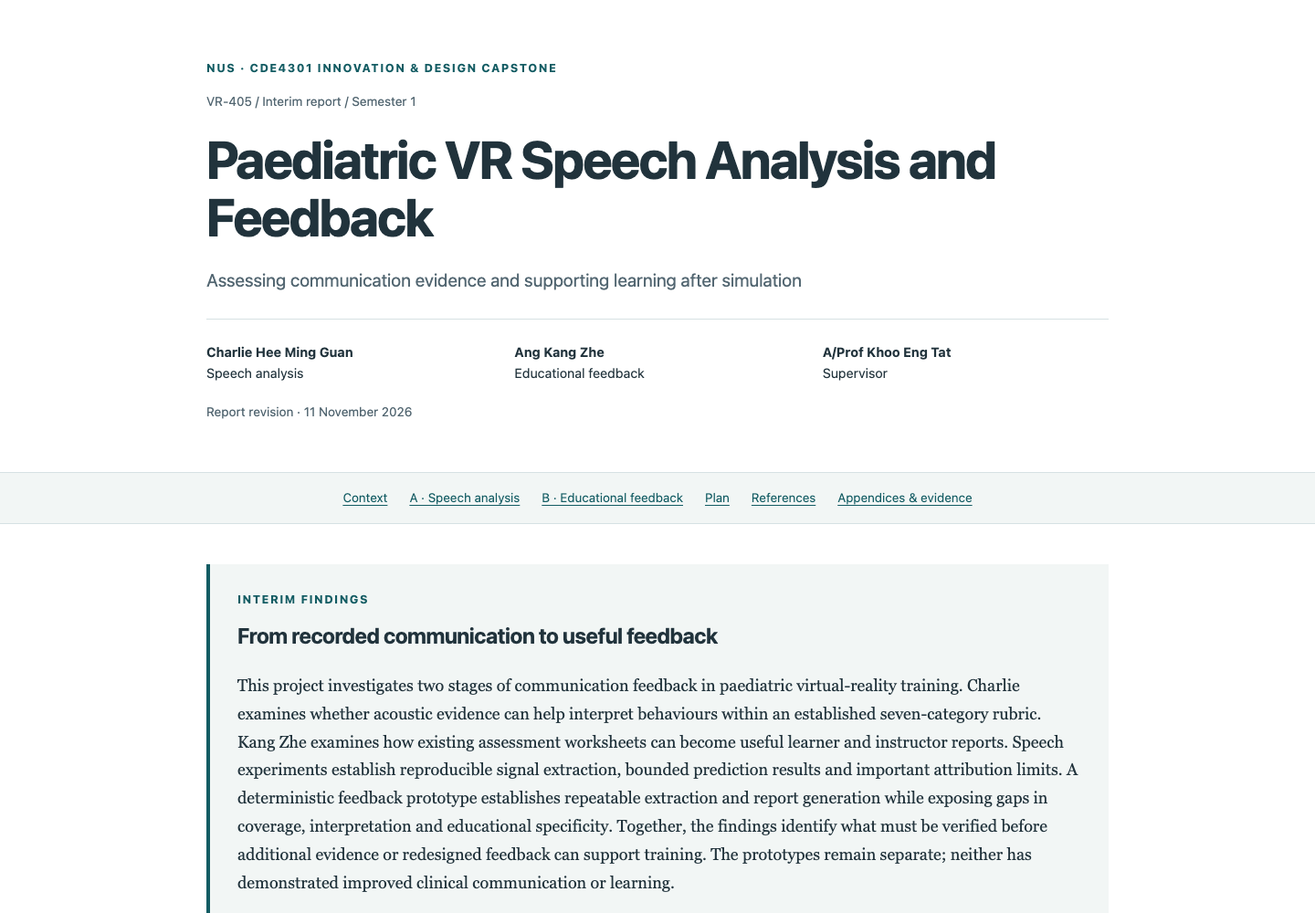
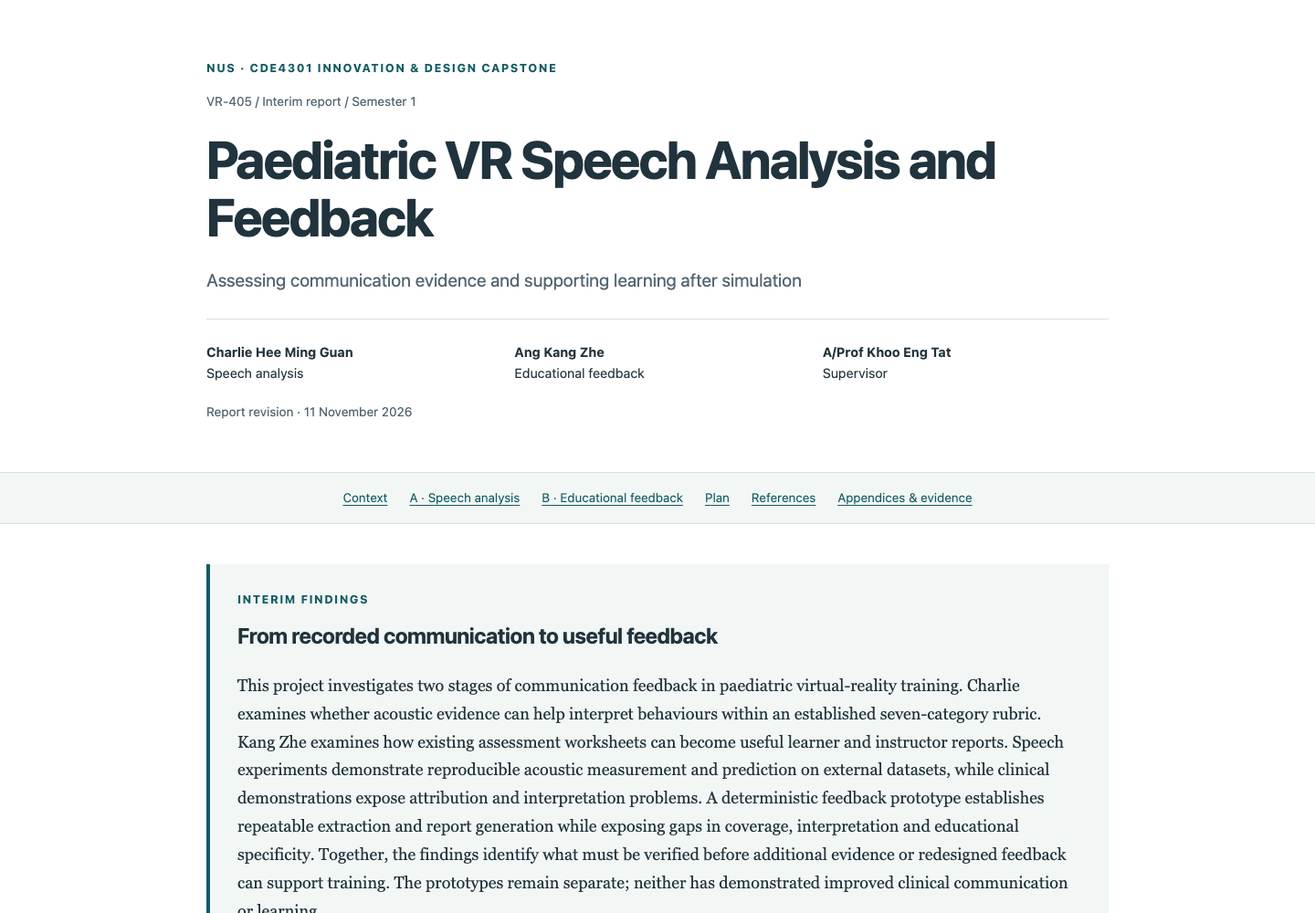
Clarify evidence interpretation and proposed evaluation controls

Changed region(s): [[0.1875, 0.837, 0.8125, 1.0]]

diff --git a/index.html b/index.html
@@ -4,21 +4,21 @@
 <nav aria-label="Report navigation"><a href="#introduction">Context</a><a href="#part-a">A · Speech analysis</a><a href="#part-b">B · Educational feedback</a><a href="#conclusion">Plan</a><a href="#references">References</a><a href="docs/evidence.html">Appendices &amp; evidence</a></nav>
 <main id="main-report">
 <section id="summary" data-part="shared" class="summary"><p class="eyebrow">Interim findings</p><h2>From recorded communication to useful feedback</h2>
-<p>This project investigates two stages of communication feedback in paediatric virtual-reality training. Charlie examines whether acoustic evidence can help interpret behaviours within an established seven-category rubric. Kang Zhe examines how existing assessment worksheets can become useful learner and instructor reports. Speech experiments establish reproducible signal extraction, bounded prediction results and important attribution limits. A deterministic feedback prototype establishes repeatable extraction and report generation while exposing gaps in coverage, interpretation and educational specificity. Together, the findings identify what must be verified before additional evidence or redesigned feedback can support training. The prototypes remain separate; neither has demonstrated improved clinical communication or learning.</p></section>
+<p>This project investigates two stages of communication feedback in paediatric virtual-reality training. Charlie examines whether acoustic evidence can help interpret behaviours within an established seven-category rubric. Kang Zhe examines how existing assessment worksheets can become useful learner and instructor reports. Speech experiments demonstrate reproducible acoustic measurement and prediction on external datasets, while clinical demonstrations expose attribution and interpretation problems. A deterministic feedback prototype establishes repeatable extraction and report generation while exposing gaps in coverage, interpretation and educational specificity. Together, the findings identify what must be verified before additional evidence or redesigned feedback can support training. The prototypes remain separate; neither has demonstrated improved clinical communication or learning.</p></section>
 <section id="introduction" data-part="shared"><p class="eyebrow">01 · Shared context</p><h2>Problem and contribution</h2>
-<p>Paediatric resuscitation requires teams to allocate roles, exchange instructions and update a shared understanding under time pressure. In a hypothetical equipment request, a transcript may preserve the words while leaving uncertainty about who heard the instruction; a worksheet may identify a communication problem while leaving trainees unsure how to improve. These are distinct gaps between recorded speech, assessment and learning.</p>
+<p>Paediatric resuscitation requires teams to allocate roles, exchange instructions and update a shared understanding under time pressure. In a hypothetical equipment request, a transcript may preserve the words while omitting delivery and overlapping speech; a worksheet may identify a communication problem while leaving trainees unsure how to improve. These are distinct gaps between recorded speech, assessment and learning.</p>
 <p>VR-405 builds on the NUS Immersive Reality Lab’s multi-user simulation and prior clinical collaboration. The upstream research team developed speaker-attributed transcription, discourse-thread reconstruction and evidence-linked positive/negative assessment worksheets. Its manuscript describes seven categories refined with clinical subject-matter experts: Roles &amp; Responsibilities, Closed Loop Communication, Clear Messages, Knowing One’s Limitations, Constructive Intervention, Summarisation &amp; Re-evaluation, and Knowledge Sharing. These categories and the upstream system are inherited work, not capstone inventions. <a href="#ref-project">[P1]</a></p>
 <p>The capstone addresses two questions the existing assessment does not settle: whether vocal evidence helps interpret an established behaviour, and whether a different presentation helps readers use the assessment. Published paediatric VR research supports investigating debriefing in this setting, but does not validate our methods. Sohlin et al.’s 24-professional pilot found the training feasible; a larger study was needed to evaluate non-inferiority between debriefing methods. <a href="#ref-vr">[1]</a></p>
 <figure class="workflow" aria-labelledby="workflow-caption">
 <div class="flow-source"><span class="flow-label">Inherited assessment</span><strong>Simulation recordings → transcripts and discourse → seven-category worksheet</strong></div>
 <div class="flow-branches"><div><span class="flow-label">Part A · Charlie</span><h3>Investigate the evidence</h3><p>Recorded audio → acoustic measurements and event candidates → proposed within-rubric comparison</p></div><div><span class="flow-label">Part B · Kang Zhe</span><h3>Develop the feedback</h3><p>Existing worksheet → implemented local report generator → proposed fidelity and educational evaluation</p></div></div>
-<figcaption id="workflow-caption">Figure 1. Separate contributions within the same assessment-to-feedback workflow. The feedback generator currently receives no Part A predictions. All diagram text is included in the word count.</figcaption></figure>
+<figcaption id="workflow-caption">Figure 1. Separate contributions within the same assessment-to-feedback workflow. The feedback generator currently receives no Part A predictions. </figcaption></figure>
 </section>
 <div id="charlie-contribution">
 <section id="part-a" data-part="charlie"><p class="eyebrow">02 · Charlie Hee Ming Guan</p><h2>Acoustic evidence within the existing rubric</h2>
 <h3>Research gap and scope decision</h3>
 <p>Listening to selected existing recordings revealed laughter during a positively assessed summary and hesitant-sounding delivery during a recognised self-correction. These informal observations show that delivery can be salient; they do not establish that the original assessment was wrong. Laughter can serve different interpersonal functions, and perceived certainty differs from correctness or competence.</p>
-<p>The initial Professionalism and Confidence column proposal was set aside following examiner feedback. The revised question is: <strong>does correctly attributed audio improve identification or interpretation of an existing rubric behaviour compared with transcript-only review?</strong> The contribution is a test of incremental evidence, not an eighth or ninth construct. The reported historical reduction from 12 constructs to seven remains unverified; the available manuscript establishes the seven-category definitions but not that derivation. <a href="#ref-project">[P1]</a></p>
+<p>The initial Professionalism and Confidence column proposal was set aside following examiner feedback. The revised question is: <strong>does correctly attributed audio improve identification or interpretation of an existing rubric behaviour compared with transcript-only review?</strong> The intended contribution is to test the value of additional evidence while keeping the rubric fixed. The reported historical reduction from 12 constructs to seven remains unverified; the available manuscript establishes the seven-category definitions but not that derivation. <a href="#ref-project">[P1]</a></p>
 <p>Clear Messages is a candidate, not a confirmed acoustic target. Its existing criteria concern directedness, specificity and brevity, including the referent, action and timing. Intelligibility must not be silently added as an indicator. Likewise, sounding confident cannot directly score Knowing One’s Limitations, which concerns help-seeking, uncertainty disclosure and escalation. Rubric-owner review must establish the relevance of any audio cue before a model output becomes assessment evidence.</p>
 <div class="table-scroll" role="region" tabindex="0" aria-label="Speech research alternatives"><table><caption>Table 1. Alternatives considered and their validation requirements.</caption><thead><tr><th scope="col">Approach</th><th scope="col">Information sought</th><th scope="col">Independent criterion needed</th></tr></thead><tbody>
 <tr><th scope="row">Transcript and context</th><td>Content and relationships between utterances</td><td>Clinical judgement under the unchanged rubric; comparison baseline</td></tr>
@@ -28,20 +28,20 @@
 <p>This distinction avoids treating a measurable variable as the desired outcome. Clear-speech research also shows that speaking style can change several acoustic dimensions; slowing alone is not a sufficient operational definition. <a href="#ref-krause">[2]</a> The experiments below therefore examine complementary feasibility questions rather than compete as interchangeable clinical scores.</p>
 </section>
 <section id="methods" data-part="charlie"><h3>Implemented speech investigations</h3>
-<p><strong>Reading confidence.</strong> The pipeline extracted 88 eGeMAPSv02 functionals plus duration and three frame-RMS descriptors from 600 teacher-labelled children’s reading recordings. Fixed five-fold stratified recording-level evaluation compared a majority baseline, logistic regression and Random Forest. Imputation and logistic scaling were fitted within each training fold. Pooled macro-F1 was <strong>0.1916, 0.7104 and 0.7849</strong>, respectively. These results show label-recovery signal under this evaluation design. <a href="#ref-sabu">[3]</a> <a href="#ref-features">[4]</a> <a href="docs/reading_confidence_benchmark.md">Methods and aggregates</a>.</p>
+<p><strong>Reading confidence.</strong> The pipeline extracted 88 eGeMAPSv02 acoustic summaries, covering properties such as pitch and voice quality, plus duration and three root-mean-square (RMS) amplitude descriptors from 600 teacher-labelled children’s reading recordings. Fixed five-fold stratified recording-level evaluation compared a majority baseline, logistic regression and Random Forest. Imputation and logistic scaling were fitted within each training fold. Pooled macro-F1 was <strong>0.1916 for the majority baseline, 0.7104 for logistic regression and 0.7849 for Random Forest</strong>. Macro-F1 gives each class equal weight by averaging its F1 score. Both learned models recovered rating information beyond the majority baseline under this evaluation design. <a href="#ref-sabu">[3]</a> <a href="#ref-features">[4]</a> <a href="docs/reading_confidence_benchmark.md">Methods and aggregates</a>.</p>
 <p>Speaker independence could not be established from authoritative metadata. Speakers, text and recording conditions may overlap across folds. Feature ablations show that the four added descriptors alone do not explain performance, without eliminating those confounds. The private clinical demo uses the saved logistic model, not the Forest. Qualitative application exposed unstable interpretations under spontaneous adult speech, silence, microphone bleed and absent linguistic context. Digital RMS is not calibrated vocal intensity; duration is not speaking rate without linguistic counts.</p>
 <p><strong>Laughter candidates.</strong> A pretrained YAMNet pipeline processed eight original WAV channels and returned 19 candidate intervals. Informal listening identified plausible examples, but no exhaustive independent event annotation supports precision or recall. Channels share acoustic content, so intervals are not independent episodes. Model scores are uncalibrated, and uncertain speaker attribution prevents assigning an event to a trainee solely from the microphone label. This prototype can surface audio for review; it cannot score professionalism. <a href="docs/speech-evidence.html#laughter">Aggregate provenance and limitations</a>.</p>
-<p><strong>Perceived emotional delivery.</strong> A separate completed CREMA-D experiment used 720 acted recordings from 30 speakers and four sentences. Logistic regression on 88 eGeMAPS features predicted unique audio-only listener pluralities, with 20/5/5 speakers separated for training, validation and test. Sixty-two tied recordings were excluded from single-label scoring. On 113 scored test clips, macro-F1 was <strong>0.367 versus 0.117</strong> for the majority baseline; training macro-F1 was 0.886. The large gap limits generalisation. This improves the evaluation design over recording-level splits but does not validate clinical communication judgements. <a href="docs/speech-evidence.html#emotion">Pinned methods, results and demonstration limits</a>.</p>
+<p><strong>Perceived emotional delivery.</strong> A separate completed CREMA-D experiment used 720 acted recordings from 30 speakers and four sentences. Logistic regression on 88 eGeMAPS features predicted the emotion receiving the most audio-only listener votes, with 20/5/5 speakers separated for training, validation and test. Sixty-two tied recordings were excluded from single-label scoring. On 113 scored test clips, macro-F1 was <strong>0.367 versus 0.117</strong> for the majority baseline; training macro-F1 was 0.886. The large training–test gap indicates limited transfer to new speakers. Speaker separation addresses an unresolved weakness of the reading-confidence benchmark, but the different targets and datasets prevent direct comparison of their F1 scores. Neither task validates clinical communication judgements. <a href="docs/speech-evidence.html#emotion">Pinned methods, results and demonstration limits</a>.</p>
 </section>
 <section id="edinburgh" data-part="charlie"><h3>Intelligibility groundwork</h3>
 <p><strong>Production contrasts.</strong> Edinburgh supplied 125 recordings: one speaker, 25 matched sentences and five conditions. First-to-last non-pure-silence annotation spans increased relative to plain speech in all 25 computer-directed pairs (median +1.73 s) and all 25 non-native-listener-directed pairs (+0.80 s). Estimated pitch-range changes differed by condition, arguing against one universal acoustic direction. These are within-speaker production findings, not listener-recognition gains. <a href="#ref-mayo">[5]</a></p>
 <p>Two infant-directed TextGrids end about 0.51 s before their WAVs. Retaining all pairs and reporting a separate exclusion sensitivity analysis preserves the anomaly transparently. A 12-recording comparison with a second pitch tracker also identified parameter and voicing sensitivity; agreement between algorithms is not ground truth. The corpus analysis lacks independent recognition labels. <a href="docs/results/measurement-audit.md">Measurement audit</a>; <a href="docs/results/pitch-quality-review.md">pitch diagnostic</a>.</p>
 </section>
-<section id="benchmark" data-part="charlie"><p><strong>Recognition precursor.</strong> R2SPIN supplied 6,400 binary keyword-recognition observations from 16 listeners and two recorded speakers. Eight held-out-list logistic comparisons gave accuracy/Brier of <strong>69.14%/0.2060</strong> using context predictability and <strong>72.88%/0.1805</strong> after adding published keyword glimpse proportion. Lower Brier indicates less squared probability error. Scaling and fitting remained within training folds. <a href="#ref-ward">[6]</a></p>
+<section id="benchmark" data-part="charlie"><h3>Predicting keyword recognition under masking</h3><p> R2SPIN supplied 6,400 binary keyword-recognition observations from 16 listeners and two recorded speakers. Logistic models evaluated across eight held-out-list folds gave accuracy/Brier of <strong>69.14%/0.2060</strong> using context predictability and <strong>72.88%/0.1805</strong> after adding published keyword glimpse proportion. Lower Brier indicates less squared probability error. Scaling and fitting remained within training folds. <a href="#ref-ward">[6]</a></p>
 <p>This demonstrates predictive value of audibility under the original masking conditions. Keyword glimpse proportion was supplied by the dataset, not extracted from trainee speech. Shared listeners, speakers and recurring keywords prevent treating rows as independent replication. Neither this association nor Edinburgh validates speaker-side prediction of clinical intelligibility. <a href="docs/speech-evidence.html#intelligibility">Results, figures and reproduction</a>.</p></section>
 <section id="questions" data-part="charlie"><h3>Next test and decision rule</h3>
-<p>The proposed hypothesis is that audio improves agreement with an independent clinical reference for one prespecified existing criterion. After rubric-owner confirmation, curate approved utterances with transcripts, timing and verified speaker/role attribution; retain an explicit uncertain/excluded category for cross-talk. Independent clinicians should record criterion judgements, reasons and disagreement before adjudication.</p>
-<p>Compare transcript-only and transcript-plus-audio review of the same episodes, separating reference annotators from condition reviewers and counterbalancing cases to limit recall. The primary outcome is the paired change in agreement with the clinical reference; criterion-specific precision/recall, wrong-speaker errors and reviewer usefulness explain that change. Account for clustering by team, episode and reviewer. Pilot annotation burden and disagreement before justifying sample size or inferential claims. If audio produces more flags without better-supported decisions, that is evidence against its proposed use.</p>
+<p>The proposed hypothesis is that audio improves agreement with an independent clinical reference for one prespecified existing criterion. After rubric-owner confirmation, curate approved communication episodes with transcripts, timing and verified speaker/role attribution. Preserve enough surrounding turns to interpret the behaviour, and flag uncertain cross-talk for review or exclusion rather than create a new rubric category. Preselect episodes independently of detector scores and include ambiguous cases. Independent clinicians should review the permitted episode evidence and record criterion judgements, reasons and disagreement before adjudication.</p>
+<p>Compare transcript-only and transcript-plus-audio review of the same episodes, holding transcript and contextual information constant. Separate reference annotators from condition reviewers; allocate cases so reviewers do not first see one version and then recall it in the other condition. The primary outcome is the paired change in agreement with the clinical reference; criterion-specific precision/recall, wrong-speaker errors and reviewer usefulness explain that change. Account for clustering by team, episode and reviewer. Pilot annotation burden and disagreement before justifying sample size or inferential claims. If audio produces more flags without better-supported decisions, that is evidence against its proposed use.</p>
 </section>
 <section id="limitations" data-part="charlie"><h3>Interpretation</h3><p>Completed work establishes acoustic extraction, bounded prediction and event-review feasibility. Its central lesson is that signal detection, listener perception and clinical interpretation require different evidence. Speaker attribution and construct relevance are now prerequisites for further modelling. No seven-category accuracy improvement or training benefit has been demonstrated. The next contribution can be useful even if it identifies which audio cues should be excluded from assessment.</p></section>
 </div>
@@ -49,7 +49,7 @@
 <section id="part-b" data-part="kang_zhe"><p class="eyebrow">03 · Ang Kang Zhe</p><h2>Educational feedback after simulation</h2>
 <h3>Problem and research objectives</h3>
 <p>The existing worksheet records assessed behaviour and supporting evidence. Learners still need to identify what applies to their role, understand the gap and decide what to practise; instructors need a defensible discussion focus. Reformatting can help organise this work, but can also distort an observation, omit context or assign a team finding to an individual without support.</p>
-<p>Part B investigates a theory-guided transformation from the existing AI worksheet into learner and instructor reports. Three questions organise evaluation: <strong>RQ-B1</strong>, whether the reports preserve meaning, coverage, category/polarity and defensible attribution; <strong>RQ-B2</strong>, whether they improve comprehension, corrective practice plans and instructor debrief preparation compared with matched evidence; and <strong>RQ-B3</strong>, whether later communication improves. The current prototype addresses technical feasibility and exposes fidelity problems. User needs, educational usefulness and subsequent performance still require direct study.</p>
+<p>Part B investigates a theory-guided transformation from the existing AI worksheet into learner and instructor reports. Three questions organise evaluation: <strong>RQ-B1</strong>, whether the reports preserve meaning, coverage, category/polarity and defensible attribution; <strong>RQ-B2</strong>, whether they improve comprehension, corrective practice plans and instructor debrief preparation compared with the original worksheet using the same assessment evidence; and <strong>RQ-B3</strong>, whether later communication improves. The current prototype addresses technical feasibility and exposes fidelity problems. User needs, educational usefulness and subsequent performance still require direct study.</p>
 </section>
 <section id="feedback-theory" data-part="kang_zhe"><h3>Research basis and design choices</h3>
 <p>Hattie and Timperley distinguish the goal, current performance and next action; Nicol and Macfarlane-Dick emphasise self-assessment and dialogue. These principles motivate linking the expected behaviour, supporting episode, reflection question and possible practice action. <a id="cite-feedback-hattie" href="#ref-hattie">[7]</a> <a id="cite-feedback-nicol" href="#ref-nicol">[8]</a> Little et al.’s review supports investigating learners’ capacity to use feedback while identifying weaknesses in intervention and study design. A reflection prompt alone is not evidence of uptake. <a href="#ref-little">[9]</a></p>
@@ -72,25 +72,25 @@
 <tr><th scope="row">14/40 AI records displayed by default</th><td>Source JSON preserves records, but displayed feedback is incomplete</td></tr>
 <tr><th scope="row">Three report pairs repeat identically</th><td>Determinism established; educational quality not established</td></tr>
 </tbody></table></div>
-<p>A synthetic test exposed an unrecognised “Summarisation &amp; Re-evaluation” header variant. Nearby rows may omit a full exchange, and a microphone or worksheet role does not establish individual responsibility. The supplied redacted CT specimen separately reports 30 annotations and displays 12 in each draft. Inspection of that output supports document-level analysis; it is not an additional workbook rerun. <a href="docs/feedback/output-v01.html">Appendix D</a>.</p>
+<p>CT and NN identify the two consultant-source groups in the recorded evaluation. A synthetic test exposed an unrecognised “Summarisation &amp; Re-evaluation” header variant. Nearby rows may omit a full exchange, and a microphone or worksheet role does not establish individual responsibility. The supplied redacted CT specimen separately reports 30 annotations and displays 12 in each draft. Inspection of that output supports document-level analysis; it is not an additional workbook rerun. <a href="docs/feedback/output-v01.html">Appendix D</a>.</p>
 <p>The main design finding is a gap between theory-derived fields and episode-specific guidance. Generic reflection and practice instructions recur across different observations. In the redacted oxygen-request example, telling the team to rehearse the target behaviour leaves it to identify what to change. A proposed prompt could ask how to identify the receiver and specify the request; an instructor could explore how the team understood it. Such prompts are design proposals requiring clinical review, not evaluated improvements. <a href="docs/feedback/post-interim-review.md#proposed-report-concepts">Worked concepts</a>.</p>
 <p>These findings distinguish extraction fidelity, semantic fidelity and educational utility. Validity concerns the interpretation and intended use of an assessment, not simply a functioning program. <a id="cite-feedback-validity" href="#ref-validity">[13]</a> The developer analysis identifies tractable engineering changes while leaving independent expert and learner judgements open.</p>
 </section>
 <section id="feedback-discussion" data-part="kang_zhe"><h3>Proposed evaluation and development priorities</h3>
 <p>First, validate headers and confirmed polarity mappings, disclose extracted/displayed/omitted totals, and retain fuller exchanges with explicit attribution uncertainty. Keep v0.1 frozen for comparison. Independent review should recover the source observation, check category/polarity and context, and judge whether proposed actions are supported and appropriate.</p>
-<p>After those checks, compare the original worksheet and redesigned reports using the same evidence; include a generic summary where feasible. Learner outcomes are comprehension and practice-plan specificity/appropriateness. Instructor outcomes are accurate, evidence-supported and useful debrief plans, with preparation time secondary. Counterbalanced cases and blinded plan ratings where feasible should reduce format and recall bias. A pilot must establish scoring anchors, recruitment feasibility and sample-size requirements.</p>
+<p>After those checks, compare the original worksheet and redesigned reports using the same evidence; include a generic summary where feasible. Learner outcomes are comprehension and practice-plan specificity/appropriateness. Instructor outcomes are accurate, evidence-supported and useful debrief plans, with preparation time secondary. Counterbalance case allocation so participants do not review the same episode in multiple formats. Where feasible, assess the resulting plans without revealing which feedback format produced them. A pilot must establish scoring anchors, recruitment feasibility and sample-size requirements.</p>
 <p>Later communication performance requires independently assessed comparable simulations and allowance for repeated teams and differing opportunities to demonstrate behaviours. A clear practice plan does not itself demonstrate behaviour change. If access to learners or clinicians is delayed, synthetic extraction tests can continue, but educational claims must remain deferred.</p>
 </section>
 </div>
 <section id="conclusion" data-part="shared"><p class="eyebrow">04 · Synthesis and plan</p><h2>Evidence before integration</h2>
-<p>Both investigations locate a gap between an output and its intended use: an acoustic prediction needs criterion relevance, and a populated report needs faithful interpretation and educational value. The interim contribution is a set of implemented, inspected methods and explicit failure modes that make those next tests more precise. Integration should follow evidence that each stage works for its intended purpose.</p>
+<p>Both investigations locate a gap between an output and its intended use: an acoustic prediction needs criterion relevance, and a populated report needs faithful interpretation and educational value. The speech studies identify which measurements can be reproduced and where prediction or attribution breaks down. The feedback prototype shows that accurate copying can coexist with incomplete coverage and generic guidance. These findings define the next tests more precisely. Integration should follow evidence that each stage works for its intended purpose.</p>
 <div class="table-scroll" role="region" tabindex="0" aria-label="Conditional project milestones"><table><caption>Table 4. Proposed eight-week sequence after scope and access confirmation; calendar dates depend on clinical availability.</caption><thead><tr><th scope="col">Period</th><th scope="col">Charlie</th><th scope="col">Kang Zhe</th><th scope="col">Completion gate</th></tr></thead><tbody>
 <tr><th scope="row">Weeks 1–2</th><td>Select criterion; agree attribution rules</td><td>Confirm headers, polarity and source spans</td><td>Reviewed definitions and permitted evidence</td></tr>
 <tr><th scope="row">Weeks 3–4</th><td>Curate attributable episodes</td><td>Correct extraction/coverage; develop specific prompts</td><td>Auditable sample and regression-tested outputs</td></tr>
 <tr><th scope="row">Weeks 5–6</th><td>Pilot independent clinical annotations</td><td>Pilot fidelity and educational scoring</td><td>Recorded disagreement, burden and feasibility</td></tr>
 <tr><th scope="row">Weeks 7–8</th><td>Compare transcript-only/audio-assisted review</td><td>Compare matched-evidence feedback formats</td><td>Effect estimates and errors; justify or reject next-stage use</td></tr>
 </tbody></table></div>
-<p>The supervisor and clinical partners must confirm the first rubric criterion, independent reviewers and applicable data-access/ethics arrangements. Raw clinical recordings, identifiable workbooks and restricted reading data remain private. Existing results do not depend on those future approvals; their clinical and educational interpretation does.</p>
+<p>The supervisor and clinical partners must confirm the first rubric criterion, independent reviewers and applicable data-access/ethics arrangements. Raw clinical recordings, identifiable workbooks and restricted reading data remain private. Approvals and data access are prerequisites for the proposed studies; no prospective clinical or educational evaluation is claimed.</p>
 </section>
 <section id="references" data-part="references" class="references"><h2>References</h2><p id="ref-project">[P1] Research-team manuscript. <em>Structured Discourse Modelling for Automated Team Communication Feedback in Paediatric VR Resuscitation Training</em>, submission ID 1911, §3.3, Table 1, p. 5. Supplied internal source; publication status unconfirmed. Not redistributed.</p><ol><li id="ref-vr">Sohlin, A. M., et al. (2026). Facilitator-guided vs self-guided debriefing in immersive virtual reality paediatric emergency training: a randomised pilot study on learning outcomes and feasibility. <em>European Journal of Pediatrics, 185</em>, 234. <a href="https://link.springer.com/article/10.1007/s00431-026-06898-3">10.1007/s00431-026-06898-3</a>.</li>
 <li id="ref-krause">Krause, J. C., &amp; Braida, L. D. (2004). Acoustic properties of naturally produced clear speech at normal speaking rates. <em>JASA, 115</em>(1), 362–378. <a href="https://pubmed.ncbi.nlm.nih.gov/14759028/">10.1121/1.1635842</a>.</li>
@@ -100,8 +100,8 @@
 <li id="ref-ward">Ward, L., Robinson, C., Paradis, M., Tucker, K. M., &amp; Shirley, B. (2019). R²SPIN: Re-Recording the Revised Speech Perception in Noise Test. <em>Interspeech</em>, 3133–3137. <a href="https://www.isca-archive.org/interspeech_2019/ward19b_interspeech.html">10.21437/Interspeech.2019-1281</a>. <a href="https://github.com/bbc/r2spin">BBC dataset</a>.</li>
 <li id="ref-hattie" tabindex="-1">Hattie, J., &amp; Timperley, H. (2007). The Power of Feedback. <em>Review of Educational Research, 77</em>(1), 81–112. <a href="https://doi.org/10.3102/003465430298487">DOI</a>.</li>
 <li id="ref-nicol" tabindex="-1">Nicol, D. J., &amp; Macfarlane-Dick, D. (2006). Formative assessment and self-regulated learning: A model and seven principles of good feedback practice. <em>Studies in Higher Education, 31</em>(2), 199–218. <a href="https://doi.org/10.1080/03075070600572090">DOI</a>.</li>
-<li id="ref-little">Little, T., Dawson, P., Boud, D., &amp; Tai, J. (2024). Can students’ feedback literacy be improved? A scoping review of interventions. Assessment &amp; Evaluation in Higher Education, 49(1), 39–52. <a href="https://doi.org/10.1080/02602938.2023.2177613">DOI</a> · <a href="https://opus.lib.uts.edu.au/handle/10453/179199">Source record</a></li>
-<li id="ref-alnazawi">Alnazawi, A., &amp; Almarhabi, M. (2026). Artificial intelligence to support debriefing in simulation-based healthcare education: A scoping review. Advances in Simulation, 11, 60. <a href="https://doi.org/10.1186/s41077-026-00447-6">DOI</a> · <a href="https://link.springer.com/article/10.1186/s41077-026-00447-6">Source record</a></li>
-<li id="ref-duff">Duff, J. P., Morse, K. J., Seelandt, J., Gross, I. T., Lydston, M., Sargeant, J., Dieckmann, P., Allen, J. A., Rudolph, J. W., &amp; Kolbe, M. (2024). Debriefing methods for simulation in healthcare: A systematic review. Simulation in Healthcare, 19(1S), S112–S121. <a href="https://doi.org/10.1097/SIH.0000000000000765">DOI</a> · <a href="https://pubmed.ncbi.nlm.nih.gov/38240623/">Source record</a></li>
-<li id="ref-kiyak">Kıyak, Y. S., İş-Kara, T., &amp; Emekli, E. (2026). Applications and outcomes of large-language-model-generated feedback in undergraduate medical education: A scoping review. Medical Science Educator, 36(1), 81–99. <a href="https://doi.org/10.1007/s40670-025-02621-3">DOI</a> · <a href="https://link.springer.com/article/10.1007/s40670-025-02621-3">Source record</a></li>
+<li id="ref-little">Little, T., Dawson, P., Boud, D., &amp; Tai, J. (2024). Can students’ feedback literacy be improved? A scoping review of interventions. <em>Assessment &amp; Evaluation in Higher Education, 49</em>(1), 39–52. <a href="https://doi.org/10.1080/02602938.2023.2177613">DOI</a> · <a href="https://opus.lib.uts.edu.au/handle/10453/179199">Source record</a></li>
+<li id="ref-alnazawi">Alnazawi, A., &amp; Almarhabi, M. (2026). Artificial intelligence to support debriefing in simulation-based healthcare education: A scoping review. <em>Advances in Simulation, 11</em>, 60. <a href="https://doi.org/10.1186/s41077-026-00447-6">DOI</a> · <a href="https://link.springer.com/article/10.1186/s41077-026-00447-6">Source record</a></li>
+<li id="ref-duff">Duff, J. P., Morse, K. J., Seelandt, J., Gross, I. T., Lydston, M., Sargeant, J., Dieckmann, P., Allen, J. A., Rudolph, J. W., &amp; Kolbe, M. (2024). Debriefing methods for simulation in healthcare: A systematic review. <em>Simulation in Healthcare, 19</em>(1S), S112–S121. <a href="https://doi.org/10.1097/SIH.0000000000000765">DOI</a> · <a href="https://pubmed.ncbi.nlm.nih.gov/38240623/">Source record</a></li>
+<li id="ref-kiyak">Kıyak, Y. S., İş-Kara, T., &amp; Emekli, E. (2026). Applications and outcomes of large-language-model-generated feedback in undergraduate medical education: A scoping review. <em>Medical Science Educator, 36</em>(1), 81–99. <a href="https://doi.org/10.1007/s40670-025-02621-3">DOI</a> · <a href="https://link.springer.com/article/10.1007/s40670-025-02621-3">Source record</a></li>
 <li id="ref-validity" tabindex="-1">Cook, D. A., &amp; Hatala, R. (2016). Validation of educational assessments: a primer for simulation and beyond. <em>Advances in Simulation, 1</em>, 31. <a href="https://advancesinsimulation.biomedcentral.com/articles/10.1186/s41077-016-0033-y">Source</a>.</li></ol><p>Source verification and claim boundaries: <a href="docs/references/submission-source-audit.md">submission source audit</a>. References are included in the conservative report word count.</p></section></main><section id="appendices" class="backmatter"><h2>Supporting evidence</h2><p><a href="docs/evidence.html">Open the evidence index</a> for speech methods and aggregate results, feedback design, engineering evaluation, redacted output and reproducibility instructions.</p></section><footer>VR-405 · NUS CDE4301 · <a href="https://github.com/Charlieheemg/VR-402">Repository</a> · <a href="docs/submission-review.md">Submission checks</a><p>The repository address retains VR-402 for continuity; the official project code is VR-405.</p></footer></body></html>

diff --git a/docs/submission-review.md b/docs/submission-review.md
@@ -11,6 +11,8 @@ Completed 11 November 2026 on a dedicated review branch. This document records e
 - Added a responsive, text-based contribution diagram, result/design tables, clear section navigation and an appendix index. Removed unused main-report references; technical depth remains in appendices and historical sources.
 - Replaced stale front-door documentation, labelled superseded plans, removed unused inherited UI helpers and consolidated word-count commands. The evaluated feedback generator and original numerical files remain unchanged.
 
+The refinement pass clarifies metric definitions and model attribution, prevents cross-task F1 comparisons, specifies episode selection and reviewer recall controls for the proposed studies, explains consultant-source labels, and strengthens the synthesis. No results or prototype implementations were changed.
+
 ## Academic coverage
 
 | Assessment area | Evidence in the final report |
@@ -26,7 +28,7 @@ Completed 11 November 2026 on a dedicated review branch. This document records e
 
 - [x] **Academic accuracy:** checked original manuscript §3.3/Table 1 and the official six-page brief; mapped each numerical result to its actual experiment. Completed, preliminary and proposed work remain distinct.
 - [x] **Completeness:** both authors have explicit questions, rationale, methods, results, interpretation and future tests. Confidence, laughter, CREMA-D, Edinburgh/R2SPIN and feedback v0.1 are represented; detailed evidence remains accessible through appendices A–D.
-- [x] **Word limit:** 3,076 words, including references, headings, captions, tables and diagram text. Shared narrative 591; Charlie 1,055; Kang Zhe 998; references 432. Headroom: 924. Masthead/navigation/footer and separate appendices are excluded.
+- [x] **Word limit:** 3,245 words, including references, headings, captions, tables and diagram text. Shared narrative 607; Charlie 1,173; Kang Zhe 1,029; references 436. Headroom: 755. Masthead/navigation/footer and separate appendices are excluded.
 - [x] **Citations:** targeted primary-source/record checks and retained source audits documented. The 26 main-report/speech/source-audit external destinations returned 18 HTTP 200, two 203, one 202 and five 403 responses. No missing/retired destination (404/410) was observed; access-blocked responses are not full-text verification.
 - [x] **Visual presentation:** inspected the complete report and key section captures; six examiner-facing pages tested at 1440×1000 and 390×844. No page overflow, failed images, empty links or JavaScript errors. Tables have horizontal mobile access; scientific figures link to full-size SVGs. Desktop/mobile compatibility redirects preserve section fragments.
 - [x] **Repository integrity:** 56 documentation files and 354 local link checks pass. One authoritative report, separate appendix bibliography, dated historical records and no unused inherited UI helpers.
